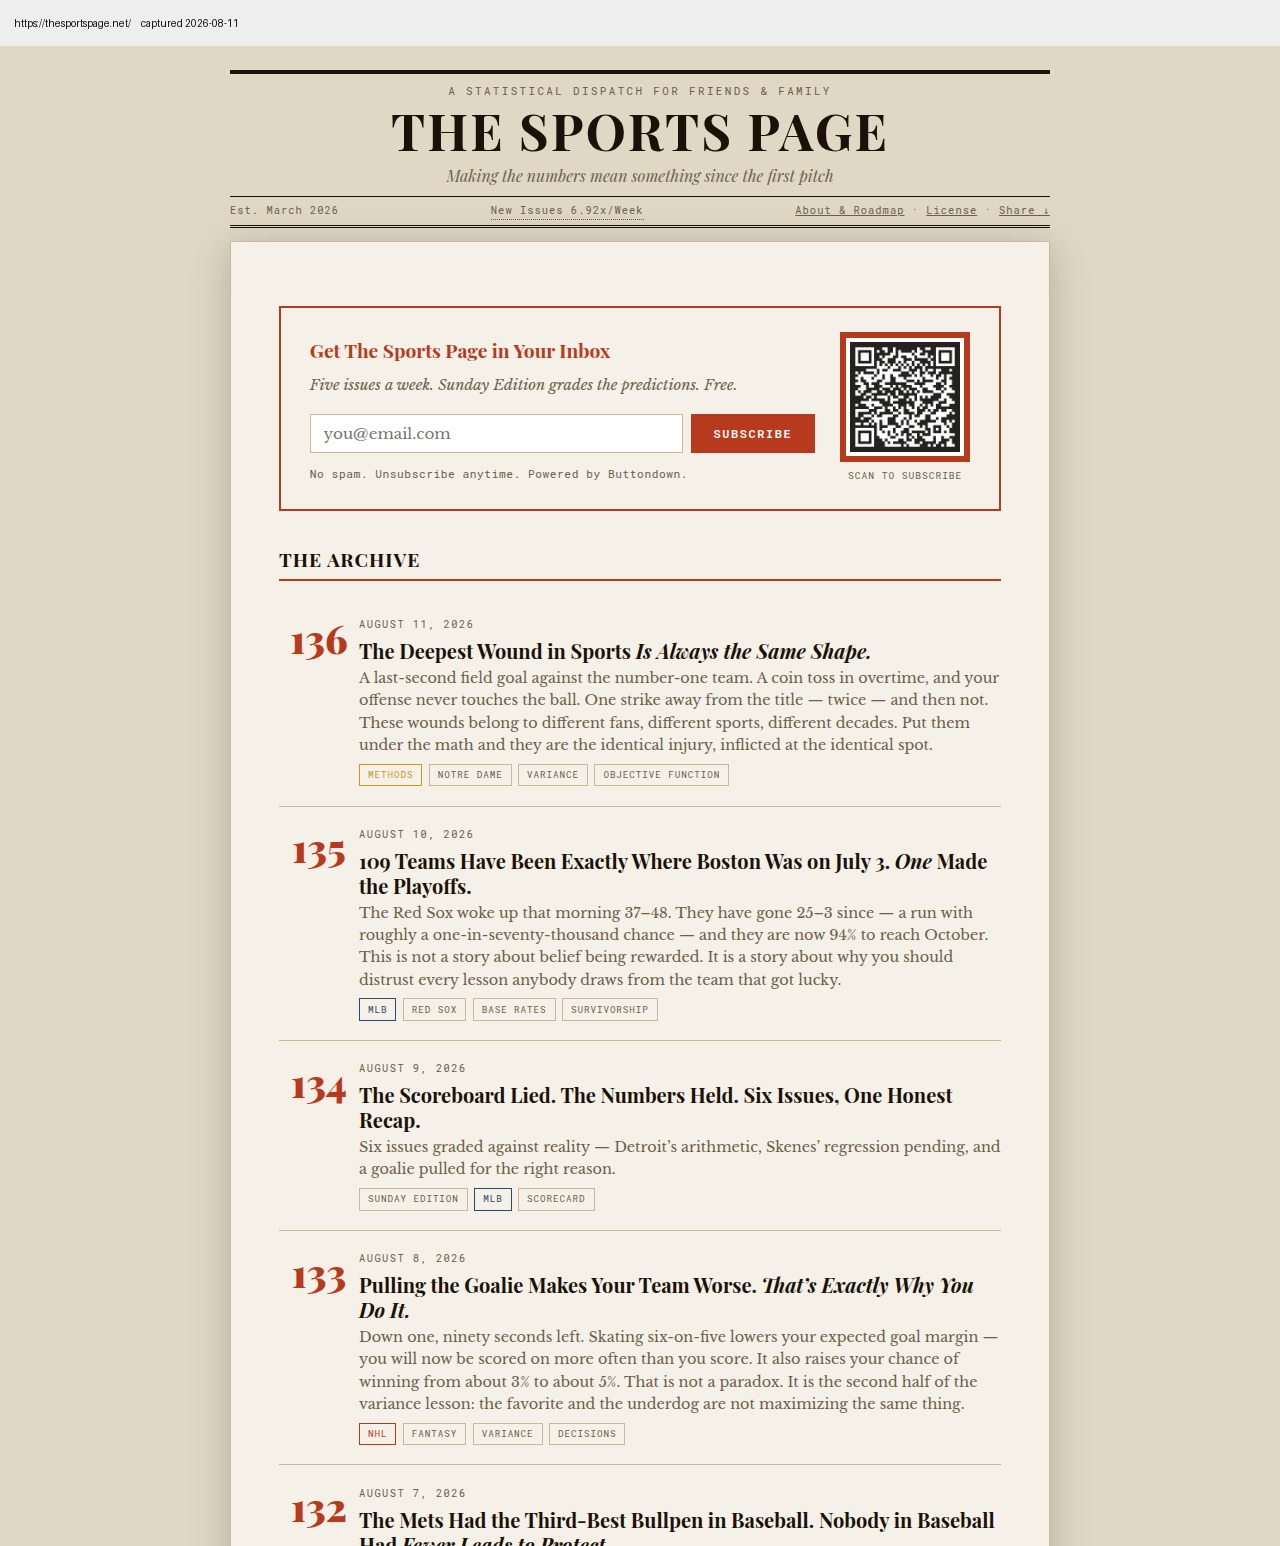
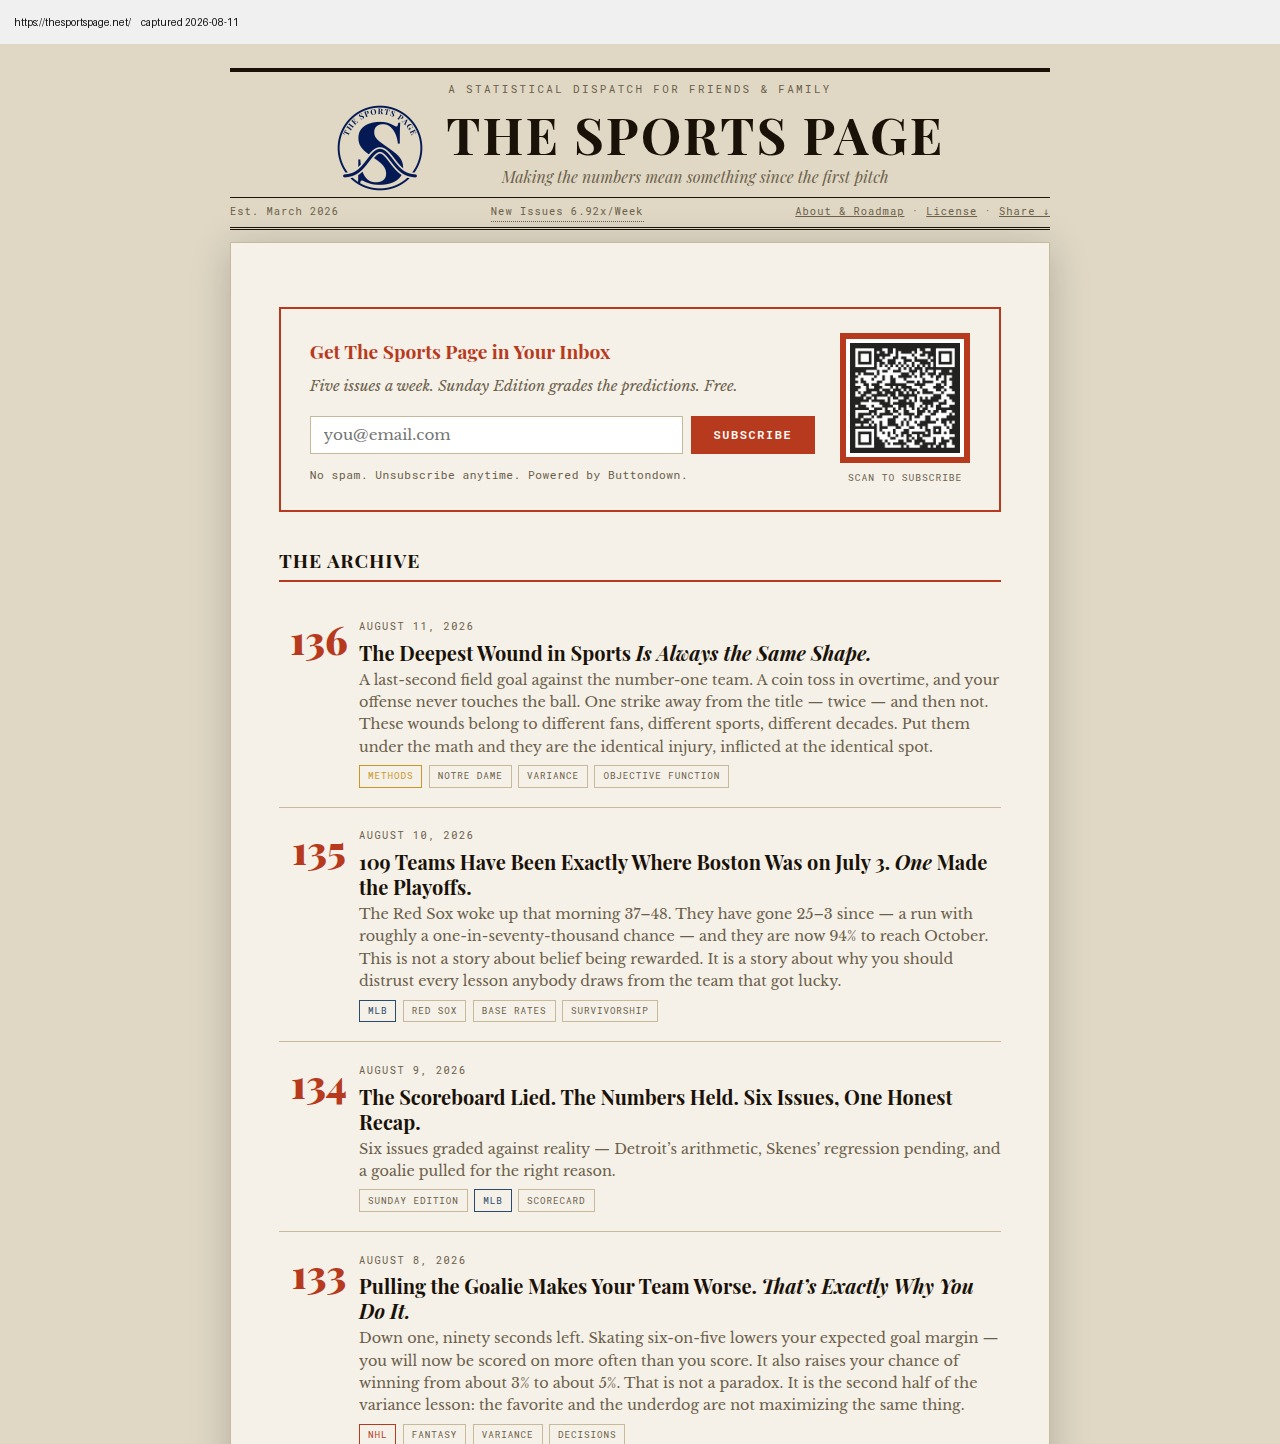
Filing package: blocker cleared, specimen recaptured showing the badge in use
The badge is now in the homepage masthead and live on the served site, so a
Section 1(a) use-based application is supportable for Class 41. Specimen
recaptured from https://thesportspage.net/ after the deploy, carrying the URL and
capture date.

Flagged a distinction the first version glossed: the NEWSLETTER has been in
continuous use since 29 March 2026 and the git history proves it, but THE BADGE
IN THIS FORM went onto the site on 11 August 2026. Those are different dates and
an examiner may care. The notes lay out both options and recommend the
conservative one -- claiming the August date for the design mark costs about four
months of priority and is unimpeachable, whereas overstating a first-use date is
a known route to a challenged registration. Left as a question for counsel rather
than decided here.

Claude-Session: https://claude.ai/code/session_01WczVVBmSnvzK9k8uPdKrCR

Changed region(s): [[0.1875, 0.0312, 0.8125, 1.0], [0.0312, 0.0, 0.0938, 0.0312]]

diff --git a/filing/README.md b/filing/README.md
@@ -4,41 +4,35 @@ Everything needed to file, plus one thing that must be fixed first.
 
 ---
 
-## ⚠ BLOCKER: the badge is not in use on the site
+## ✓ Blocker cleared, 11 August 2026
 
-**Read this before filing anything.**
+**The problem was real and it is now fixed.**
 
-A use-based application (TEAS, Section 1(a)) requires you to declare **under
-penalty of perjury** that the mark is in use in commerce for the services listed.
+When this package was first assembled the circular badge appeared on **no page**
+of thesportspage.net — it was referenced in zero HTML files, existing publicly
+only as the apple-touch icon buried in a `<link>` tag. A Section 1(a)
+application declares **under penalty of perjury** that the mark is in use in
+commerce for the listed services. For the badge, that would have been untrue.
 
-The circular badge is referenced in **zero** HTML files on thesportspage.net. The
-homepage masthead is the words *The Sports Page* set in Playfair Display — a
-wordmark, not the badge. The badge exists publicly only as the apple-touch icon,
-which is a phone home-screen graphic and a poor specimen: an examiner wants the
-mark shown to consumers in connection with the services, not buried in a
-`<link rel>` tag.
+The badge is now displayed in the **homepage masthead**, to the left of the
+wordmark, where a reader plainly sees it in connection with the services. Live
+and verified on the served site, and `specimen-website.jpg` was recaptured from
+`https://thesportspage.net/` afterwards.
 
-So `specimen-website.jpg` in this folder **evidences the wordmark, not the badge.**
-It is included because it is genuinely useful — but it supports a different
-application than the one we want.
+A use-based (1(a)) filing is now supportable for **Class 41**.
 
-### Three ways forward
+**One caveat on the first-use date for the badge specifically.** The newsletter
+has been in continuous use since 29 March 2026, but *the badge in this form* went
+onto the site on **11 August 2026**. Those are different dates and an examiner
+may care about the difference. Options, for the attorney to settle:
 
-1. **Put the badge on the site, then file use-based.** Add it to the homepage
-   masthead or the About page, re-capture the specimen, file 1(a). Cleanest, and
-   it is a small change. *Recommended.*
-2. **File intent-to-use (Section 1(b)).** Perfectly legitimate: it secures your
-   priority date now and you file a Statement of Use once the badge is deployed.
-   Costs an extra fee later. Good if speed matters more than tidiness.
-3. **File on the lockup that IS in use.** `assets/banner.png` — the stacked
-   wordmark with the S — appears on the homepage and on ~172 published issues.
-   That is real, evidenced, continuous use. But the circular badge is the
-   distinctive asset, and this is not it.
+- Claim **29 March 2026** for the wordmark and the newsletter services, which the
+  git history proves, and let the design mark inherit the same service use; or
+- Claim **11 August 2026** for the design mark specifically — conservative,
+  unimpeachable, and it costs only a few months of priority.
 
-**Do not file 1(a) on the badge until it is actually displayed.** An inaccurate
-use declaration can void a registration later, and it is signed under oath.
-
----
+Given how new the badge is, **the conservative date is the safer claim** unless
+counsel says otherwise. Do not overstate it to gain four months.
 
 ## What is ready
 
@@ -46,7 +40,7 @@ use declaration can void a registration later, and it is signed under oath.
 |---|---|
 | `drawing-bw.jpg` | **Recommended drawing.** 944×944, 300dpi, RGB, tight-cropped |
 | `drawing-color.jpg` | Alternative, only if claiming colour |
-| `specimen-website.jpg` | Homepage capture with URL and date — **wordmark, see blocker** |
+| `specimen-website.jpg` | Homepage capture with URL and date, **showing the badge in use** |
 
 ### Why black and white
 
@@ -72,7 +66,7 @@ Both drawings meet the USPTO requirements: `.jpg`, 250–944 px on each side,
 | Mark description | A circular badge containing the stylised letter "S" with a bell-shaped curve passing across its lower half, encircled by the words "THE SPORTS PAGE" |
 | Literal element | THE SPORTS PAGE |
 | Disclaimer | Expect to disclaim **"THE SPORTS PAGE"** apart from the mark as shown — it is descriptive of a sports publication |
-| Filing basis | 1(a) use in commerce **once the blocker is cleared**, otherwise 1(b) intent to use |
+| Filing basis | **1(a) use in commerce** — supportable as of 11 Aug 2026 |
 | Class | **41** — the core filing |
 | Identification | *"Providing online non-downloadable publications in the nature of articles and newsletters in the field of sports statistics and analysis"* — **check against the USPTO ID Manual and use pre-approved wording verbatim if available; it avoids an office action** |
 | Date of first use anywhere | See below |
@@ -80,6 +74,8 @@ Both drawings meet the USPTO requirements: `.jpg`, 250–944 px on each side,
 | Specimen | Website screenshot showing the mark with the services |
 
 ### On the first-use date — claim what you can prove
+
+*(See also the badge-specific caveat above — the design went live 11 Aug 2026.)*
 
 `CLAUDE.md` says the newsletter launched on **27 March 2026** (MLB Opening Day),
 and Issue #1 carries that date. The earliest date the repository can *prove*
